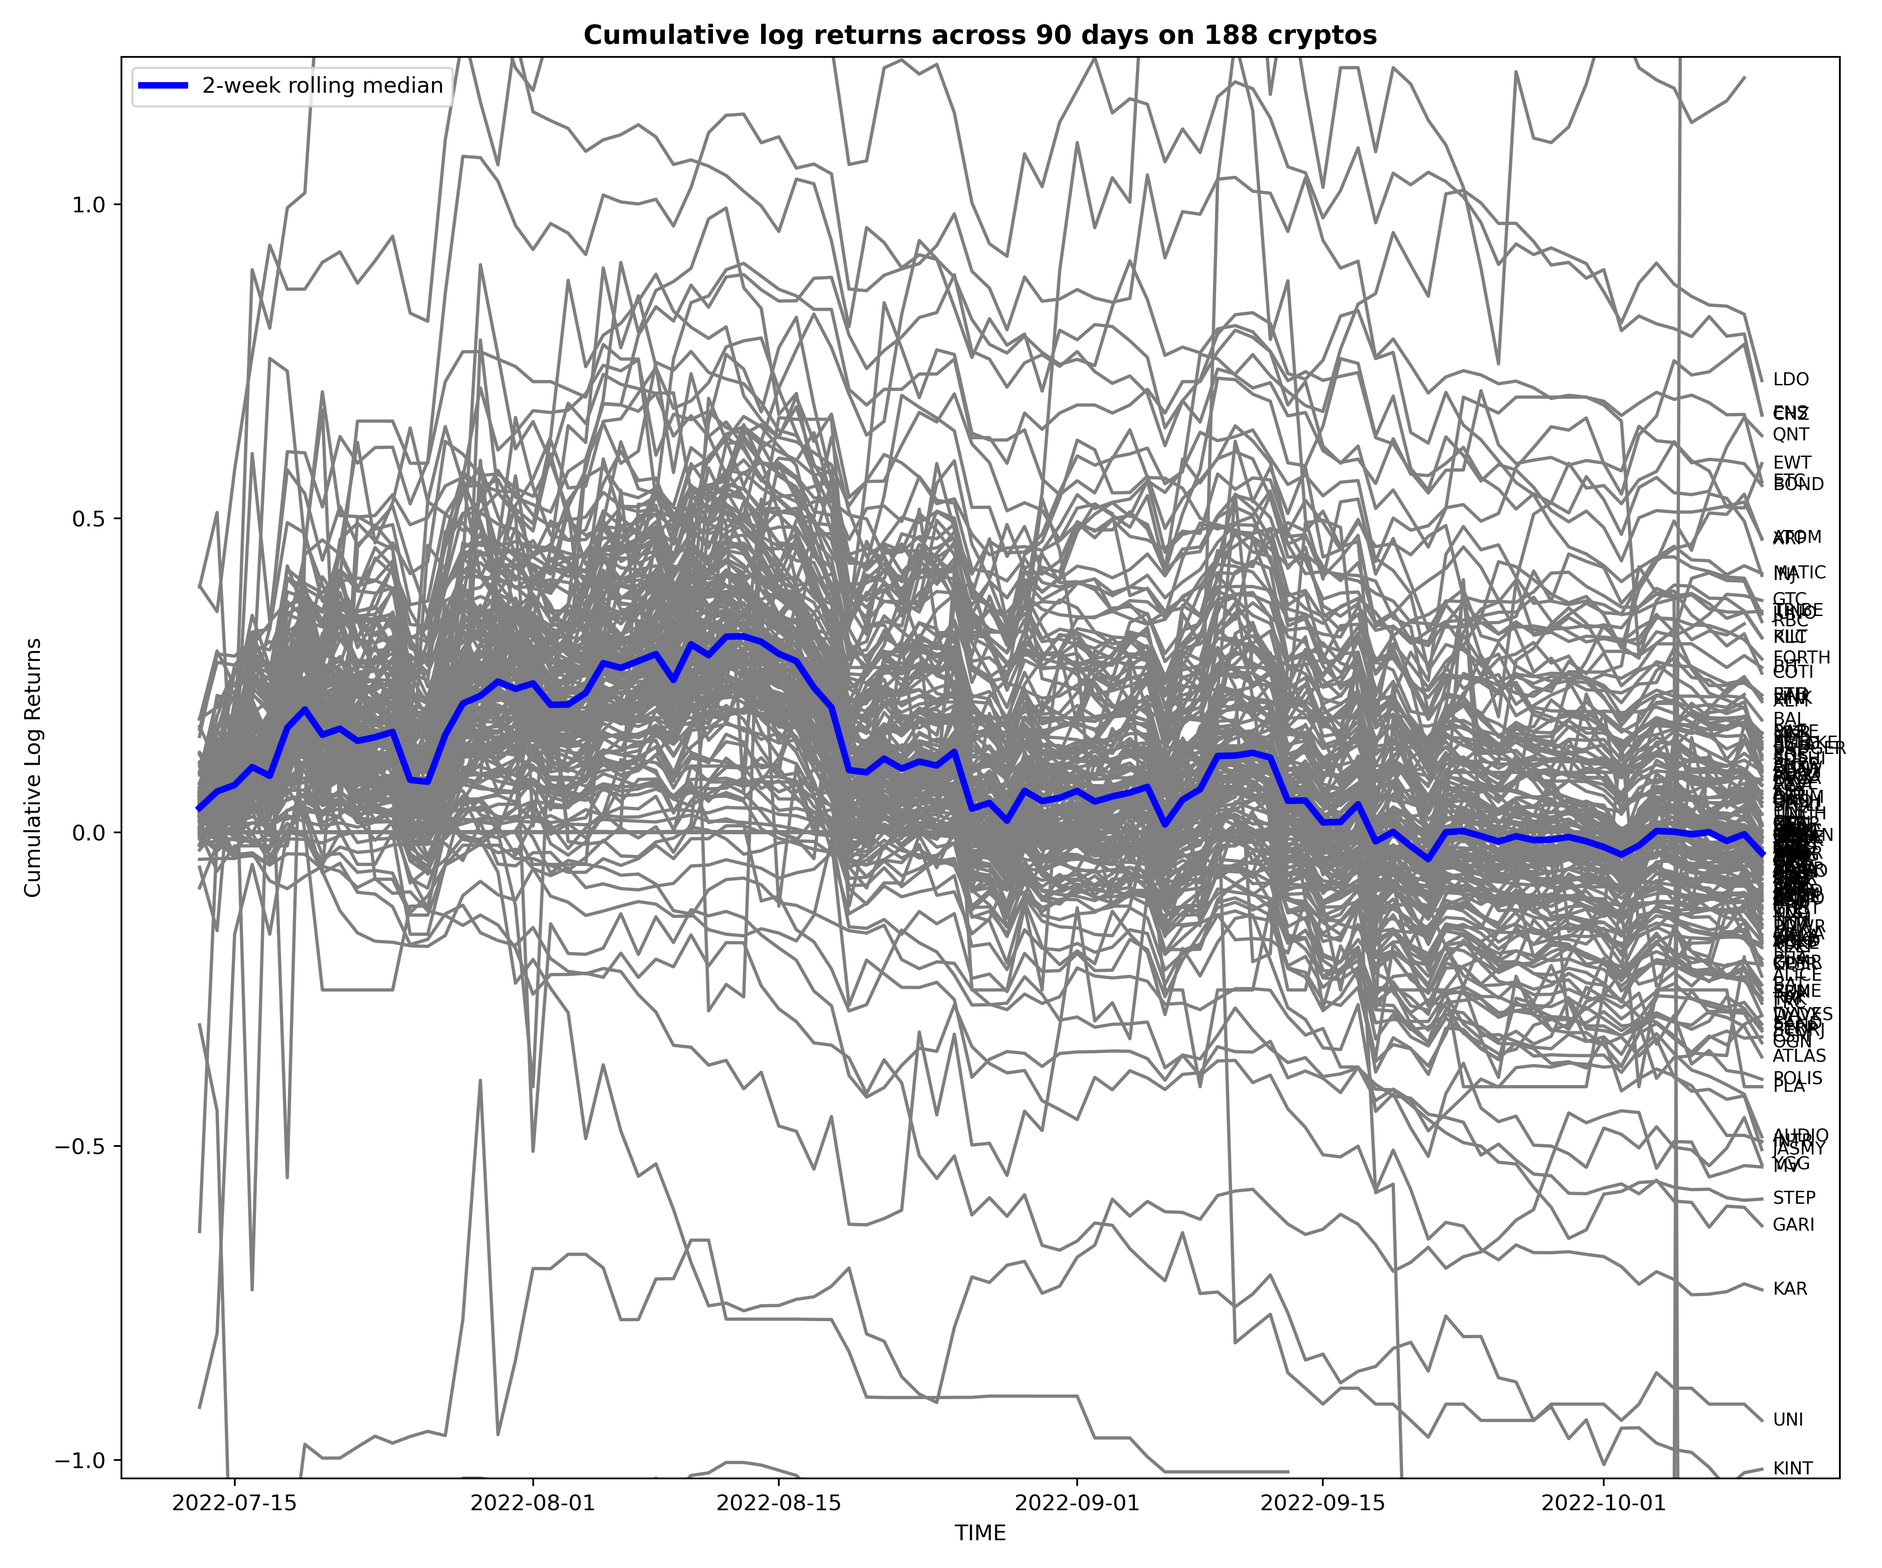
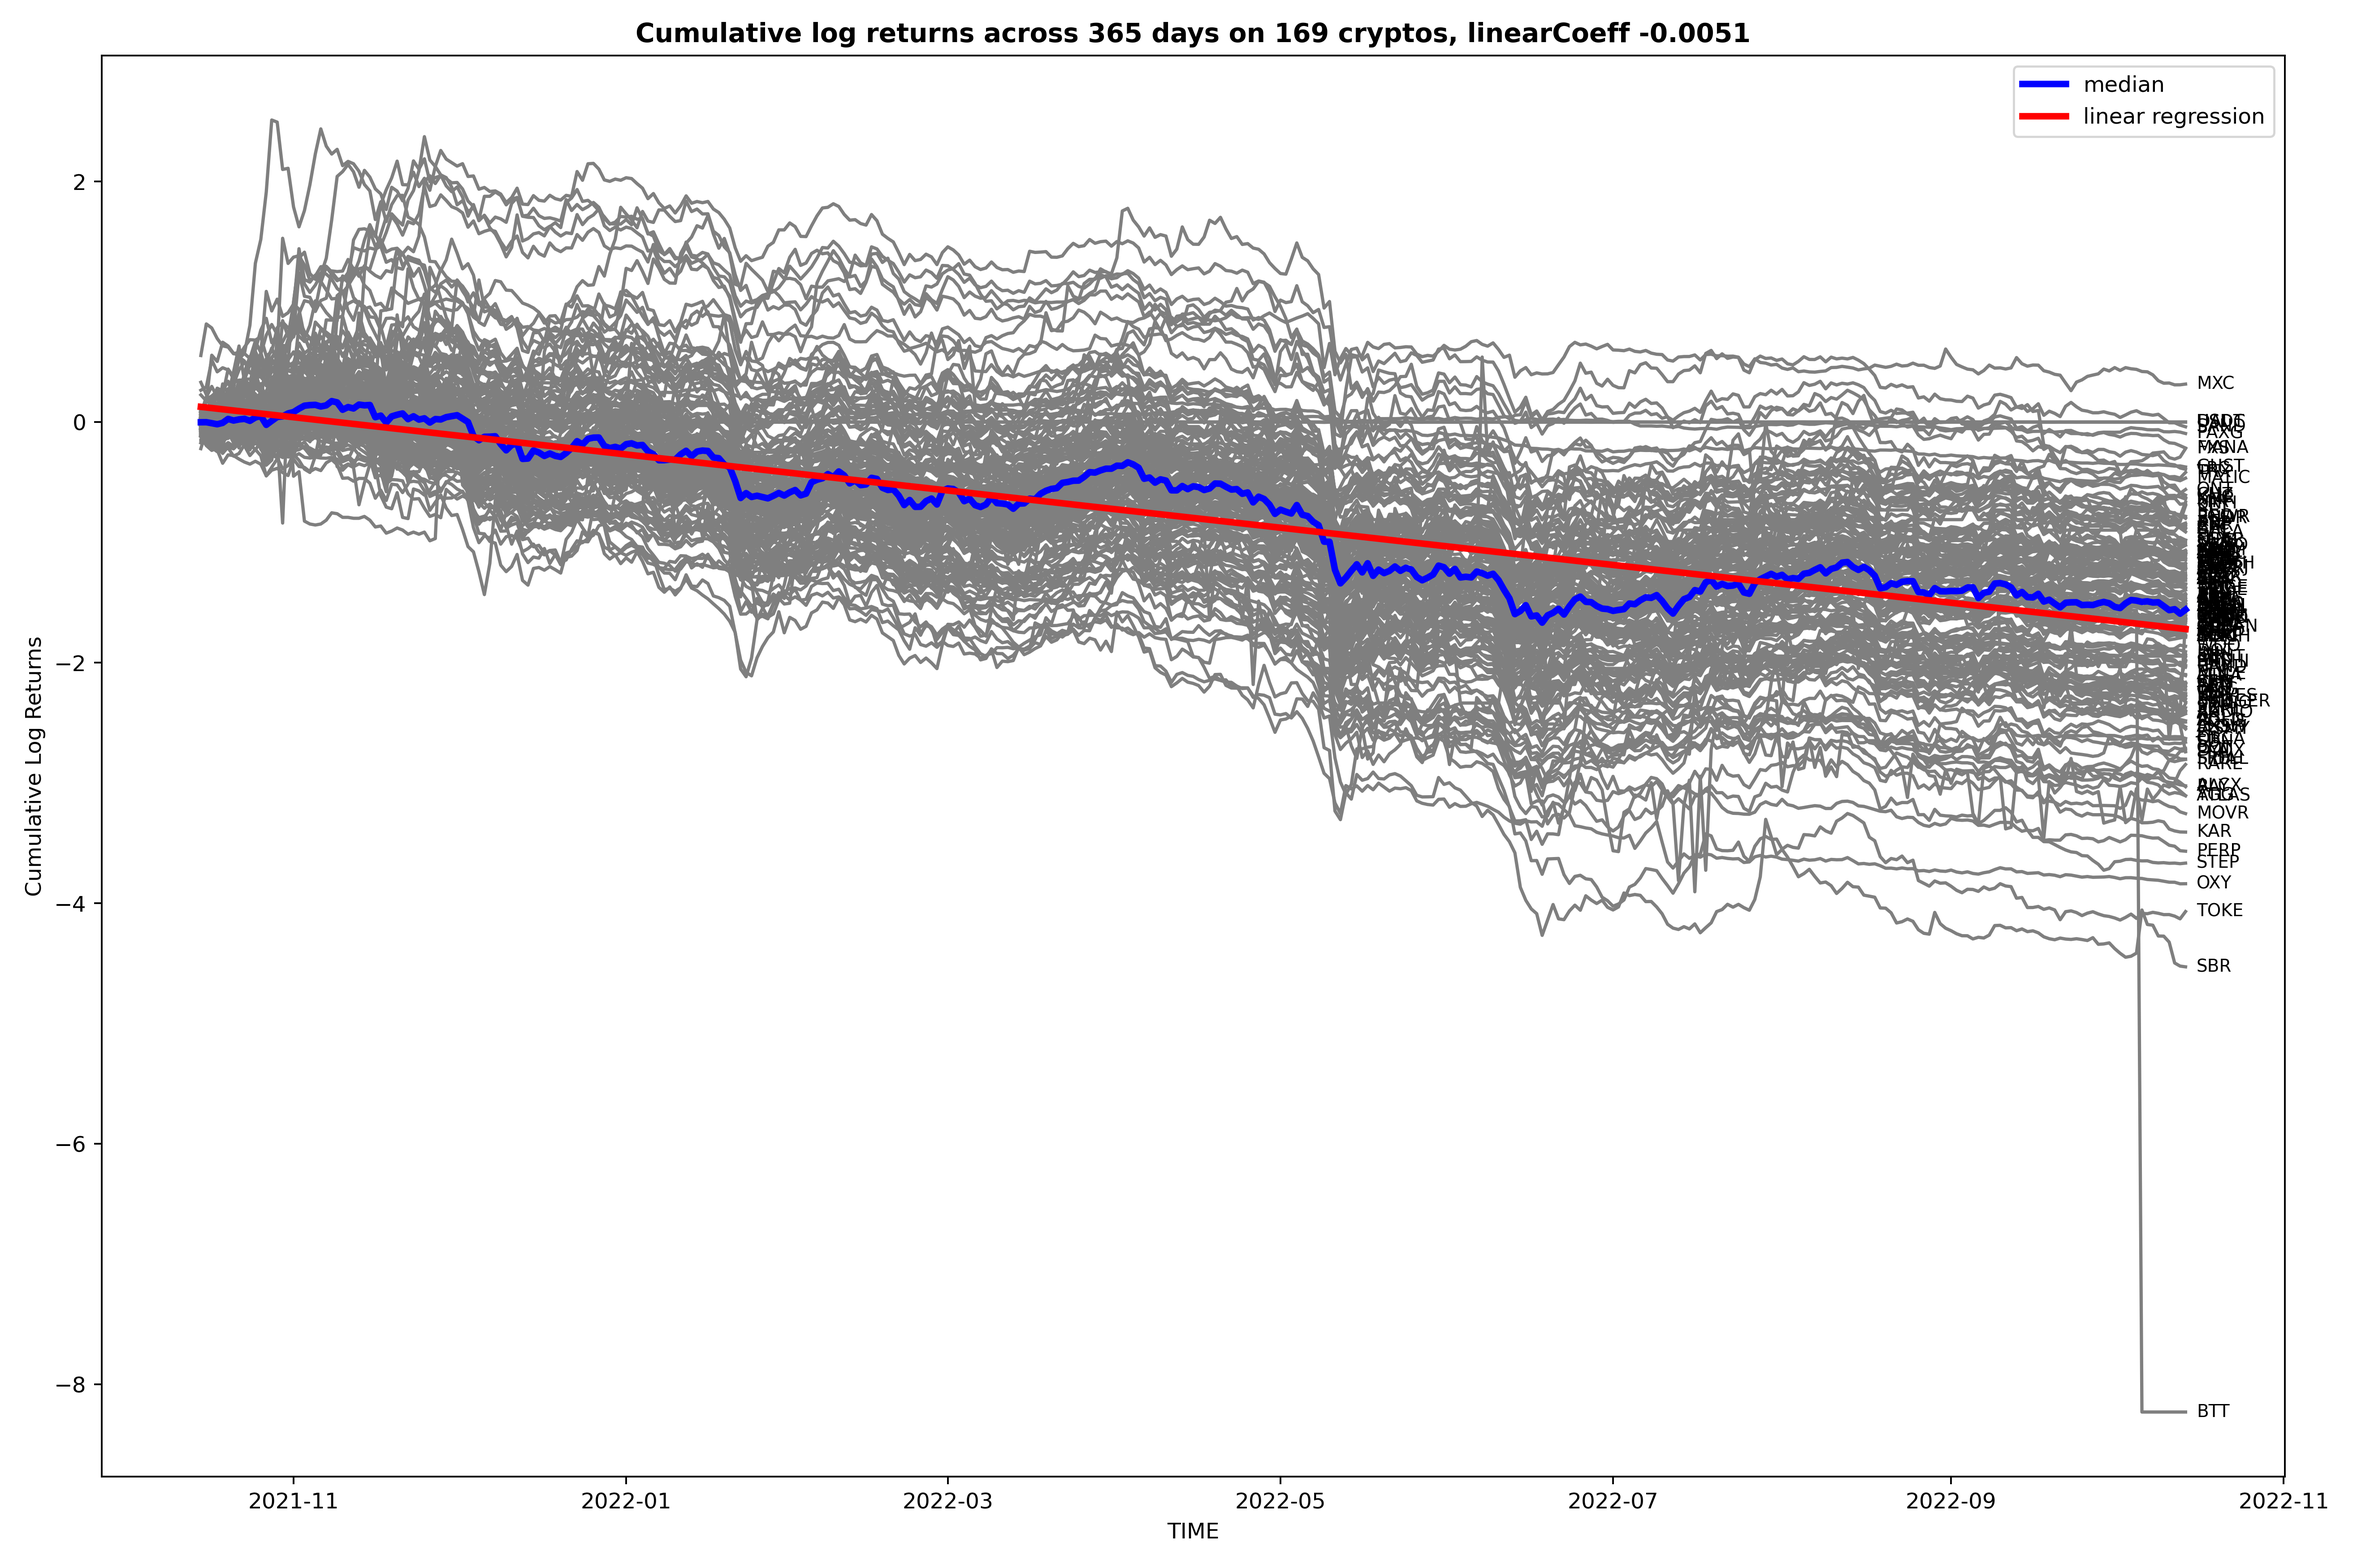
FIX: market trend plot

diff --git a/market_value_estimator.py b/market_value_estimator.py
@@ -10,9 +10,10 @@ import os
 from pandas import DataFrame, read_csv
 import yfinance as yf
 from timeit import default_timer
-from numpy import nanmedian, nanmean, zeros, log
+from numpy import nanmedian, zeros, log, array, nan, arange
 from tqdm import tqdm
-SET_PERIOD = 60
+from sklearn.linear_model import LinearRegression
+SET_PERIOD = 365
 def set_crypt_names():
     location = os.getcwd()
     df = read_csv(os.path.join(location,'crypto_trade_min.csv'))
@@ -41,18 +42,32 @@ def plot_all(main_df,crypt_count):
     rolling_mean = zeros(len(main_df))
     for i in range(len(main_df)):
         rolling_mean[i] = nanmedian(main_df.iloc[i])
-    plt.figure(figsize=(12, 10), dpi=350)
+    #calc linear regress
+    a_list = list(arange(0,len(rolling_mean)))
+    X1 = array(a_list)
+    X = X1.reshape(-1, 1)
+    reg = LinearRegression().fit(X, rolling_mean) #maybe change this to X, main_df.dropna(axis=1)
+    reg_arr = zeros(len(rolling_mean))
+    for i in X1:
+        reg_arr[i] = (reg.coef_ * i) + reg.intercept_
+    reg_arr = [nan if x == 0 else x for x in reg_arr]
+    plt.figure(figsize=(15, 10))
     for crypt in main_df.columns:
-        plt.plot(main_df[crypt],'tab:gray')
-        plt.annotate(xy=(main_df[crypt].index[-1],main_df[crypt].iloc[-1]),
-                    xytext=(5,0),
-                    textcoords='offset points', 
-                    text=crypt, va='center',fontsize=8)
-    plt.plot(main_df.index,rolling_mean,linewidth=3,color='blue',label='2-week rolling median')
-    lower = nanmean(rolling_mean) - (nanmean(rolling_mean) * 15)
-    upper = abs(nanmean(rolling_mean) + (nanmean(rolling_mean) * 15))
-    plt.ylim([lower,upper])
-    set_title = f'Cumulative log returns across {SET_PERIOD} days on {crypt_count} cryptos'
+        if main_df[crypt].isna().sum() < 3:
+            plt.plot(main_df[crypt],'tab:gray')
+            plt.annotate(xy=(main_df[crypt].index[-1],main_df[crypt].iloc[-1]),
+                        xytext=(5,0),
+                        textcoords='offset points', 
+                        text=crypt, va='center',fontsize=8)
+    plt.plot(main_df.index,rolling_mean,linewidth=3,color='blue',label='median')
+    plt.plot(main_df.index,reg_arr,linewidth=3,color='red',label='linear regression')
+    # lower = nanmean(rolling_mean) - (nanmean(rolling_mean) * 13)
+    # upper = abs(nanmean(rolling_mean) + (nanmean(rolling_mean) * 13))
+    # q3, q1 = percentile(rolling_mean, [75 ,25])
+    # print(abs(q3)*5)
+    # print(q1*5)
+    # plt.ylim([lower,upper])
+    set_title = f'Cumulative log returns across {SET_PERIOD} days on {crypt_count} cryptos, linearCoeff {round(reg.coef_[0],4)}'
     plt.title(set_title,fontweight='bold')
     plt.xlabel('TIME')
     plt.ylabel('Cumulative Log Returns')
@@ -67,8 +82,7 @@ def plot_all(main_df,crypt_count):
         os.mkdir(check_folder)
         final_dir = os.path.join(check_folder, name)
     plt.tight_layout()
-    plt.show()
-    plt.savefig(final_dir,dpi=300)
+    plt.savefig(final_dir,dpi=350)
     plt.close()
 def main():
     start = default_timer()
